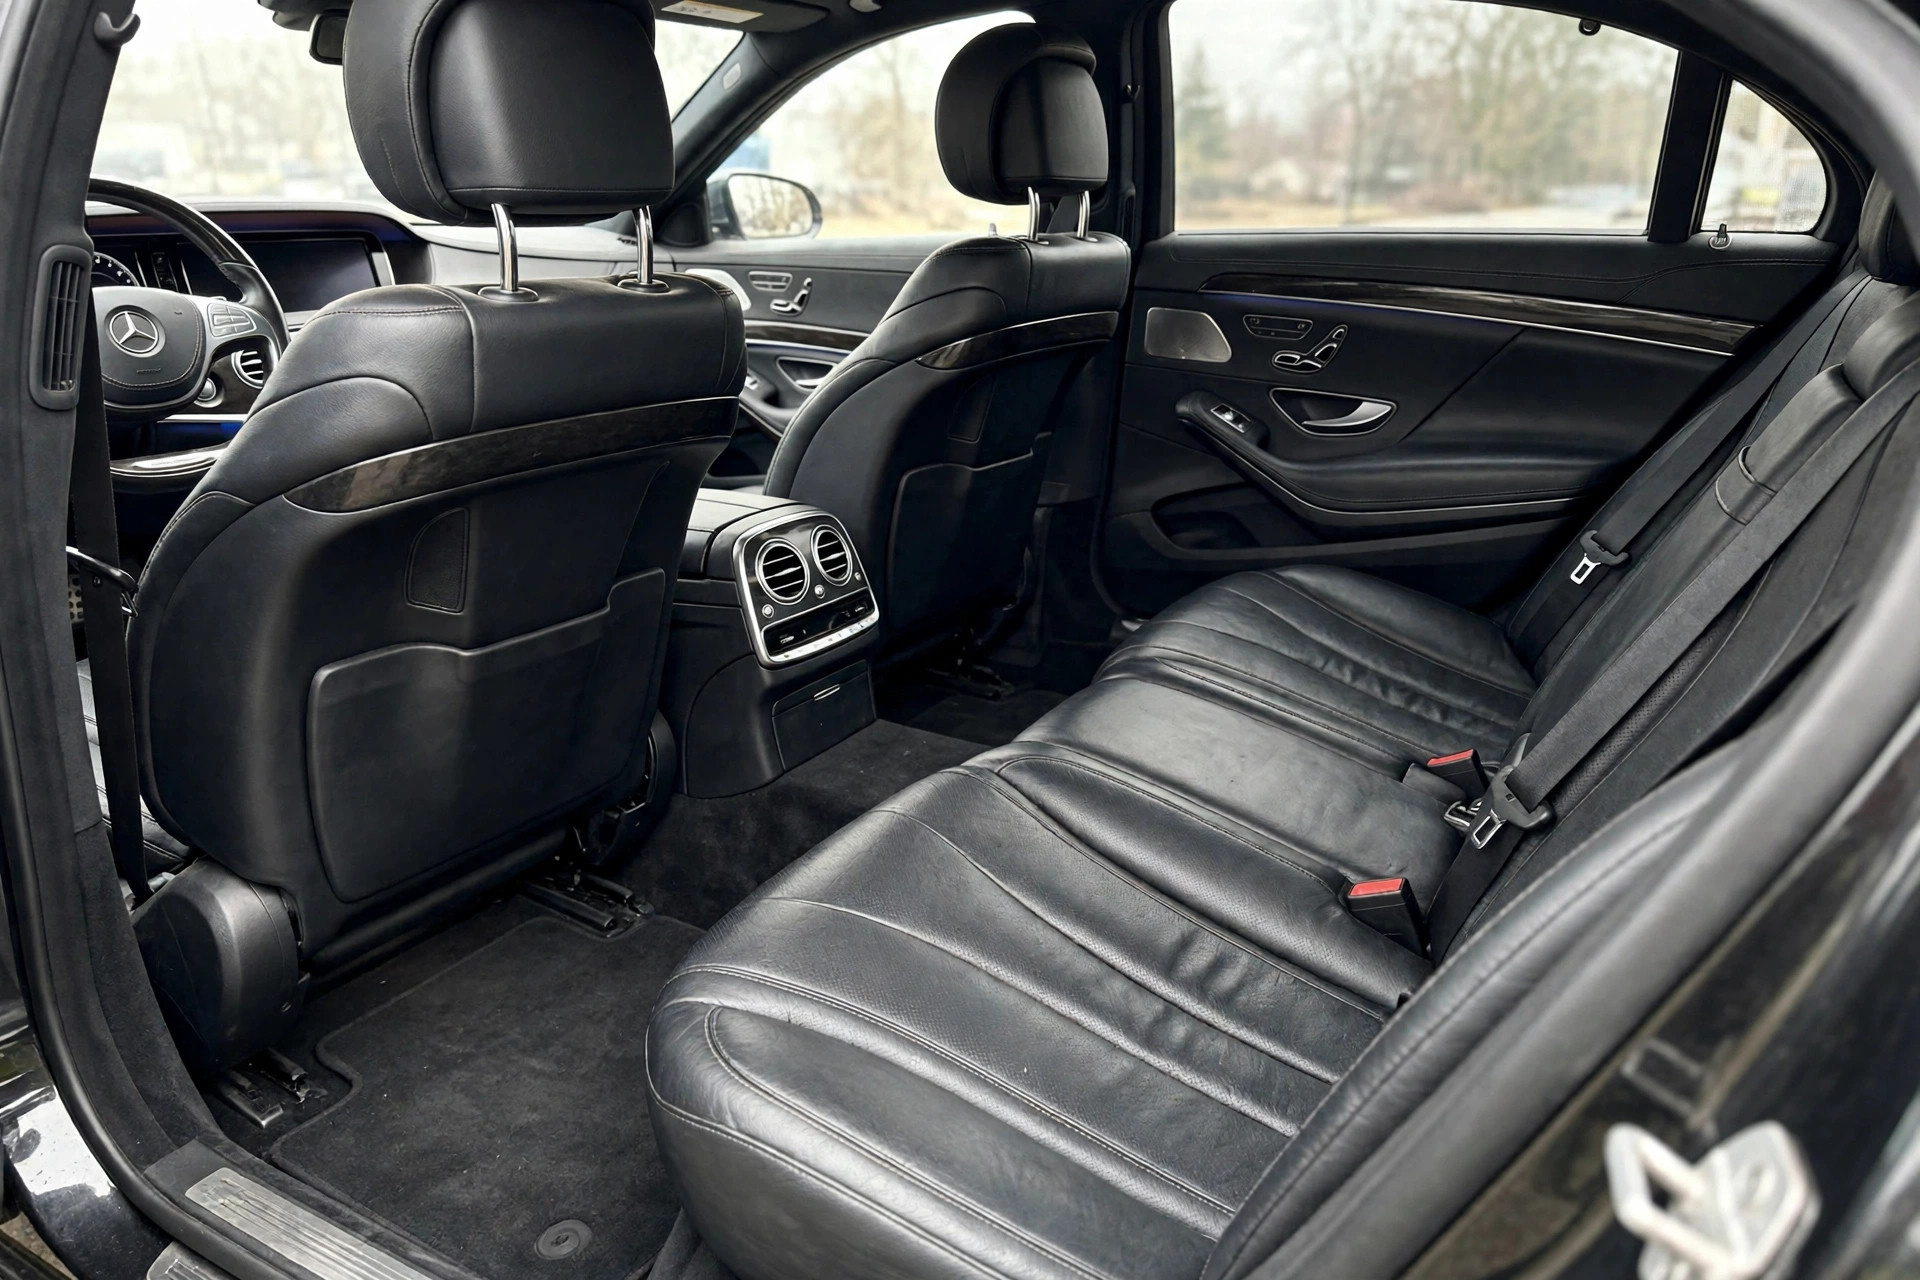
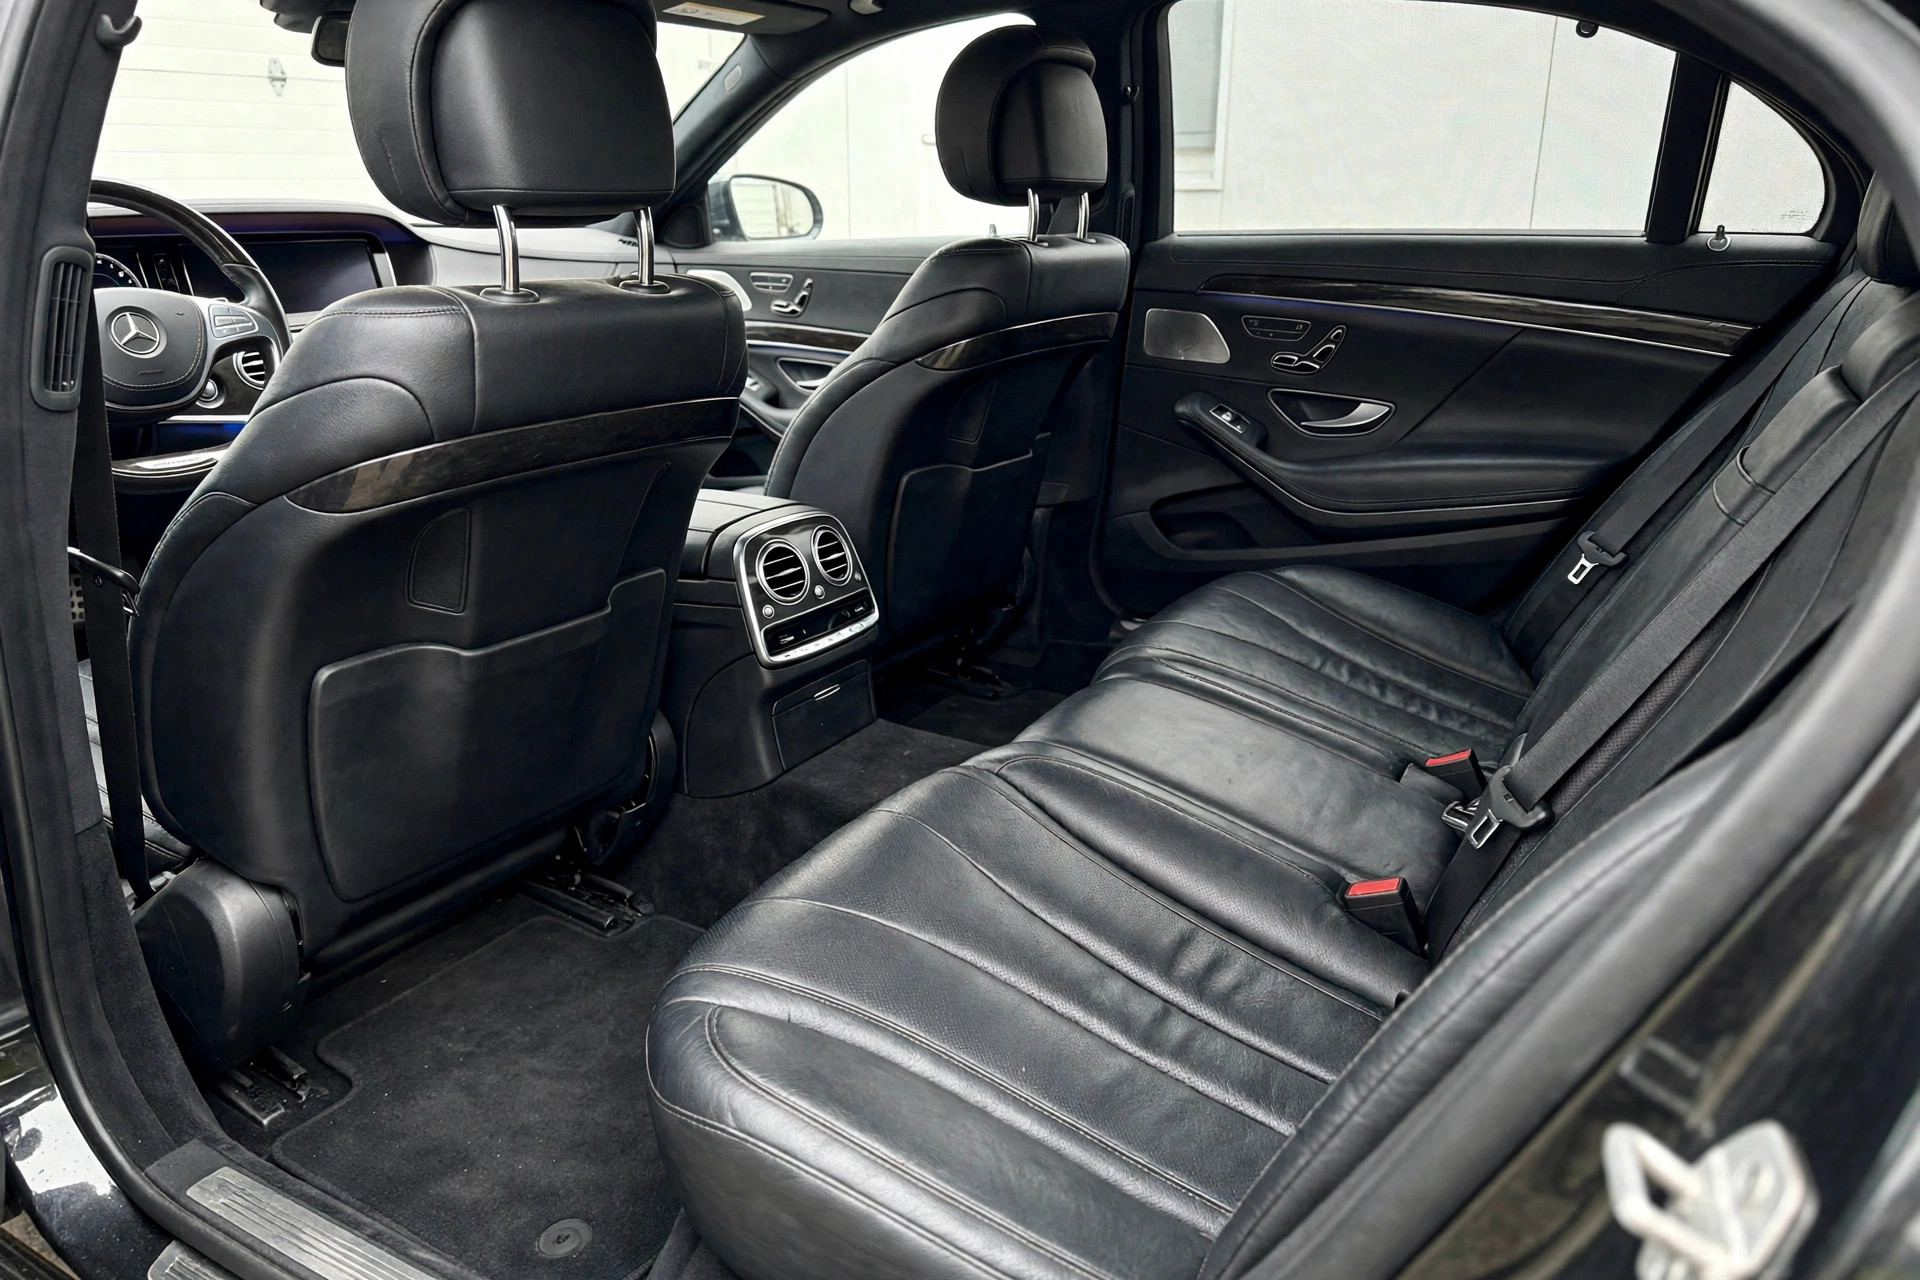
Detailing Bro finish pass (SGX)

diff --git a/index.html b/index.html
@@ -3,6 +3,7 @@
   <head>
     <meta charset="utf-8" />
     <meta name="viewport" content="width=device-width, initial-scale=1, viewport-fit=cover" />
+      <link rel="preload" as="image" href="hero-gelik.jpg" fetchpriority="high" />
     <meta name="color-scheme" content="dark" />
     <meta name="theme-color" content="#0A0A0A" />
     <meta name="mobile-web-app-capable" content="yes" />
@@ -33,17 +34,17 @@
       /* ---------- Header + role switch ---------- */
       header.top{
         position:sticky; top:0; z-index:40; background:rgba(10,10,10,.92);
-        backdrop-filter:blur(10px); border-bottom:1px solid var(--border);
+        -webkit-backdrop-filter:blur(10px);backdrop-filter:blur(10px); border-bottom:1px solid var(--border);
         padding:12px 16px 12px;
       }
       .brandrow{display:flex; align-items:center; justify-content:space-between; margin-bottom:10px;}
       .brand{font-size:19px; font-weight:800; letter-spacing:.2px;}
       .brand small{display:block; font-size:12px; font-weight:500; color:var(--muted); letter-spacing:0;}
-      .demo-tag{font-size:11px; font-weight:700; color:var(--muted); border:1px solid var(--border); border-radius:999px; padding:5px 10px; text-transform:uppercase; letter-spacing:.6px;}
+      .demo-tag{font-size:12px; font-weight:700; color:var(--muted); border:1px solid var(--border); border-radius:999px; padding:5px 10px; text-transform:uppercase; letter-spacing:.6px;}
       .segmented{display:flex; background:var(--card); border:1px solid var(--border); border-radius:999px; padding:4px; gap:4px;}
       .segmented button{
         flex:1; border:0; border-radius:999px; background:transparent; color:var(--muted);
-        font-size:15px; font-weight:700; padding:9px 0; min-height:44px; transition:all .15s;
+        font-size:15px; font-weight:700; padding:9px 0; min-height:44px; transition:transform .15s var(--ease-out), background-color .15s var(--ease-out), border-color .15s var(--ease-out);
       }
       .segmented button.active{background:var(--btn); color:var(--btn-text);}
 
@@ -150,7 +151,7 @@
       .dirty-row.on .switch::after{left:25px; background:#0A0A0A;}
       .sticky-bar{
         position:fixed; left:50%; transform:translateX(-50%); bottom:calc(var(--nav-h) + env(safe-area-inset-bottom));
-        width:min(480px,100%); background:rgba(16,16,16,.96); backdrop-filter:blur(10px);
+        width:min(480px,100%); background:rgba(16,16,16,.96); -webkit-backdrop-filter:blur(10px);backdrop-filter:blur(10px);
         border-top:1px solid var(--border); padding:12px 16px; z-index:35; display:none;
       }
       .sticky-bar.show{display:block;}
@@ -224,7 +225,7 @@
       nav.bottom button.active{color:#fff;}
       nav.bottom .badge{
         position:absolute; margin-left:30px; margin-top:-32px; background:#fff; color:#0A0A0A;
-        font-size:11px; font-weight:800; min-width:19px; height:19px; border-radius:999px;
+        font-size:12px; font-weight:800; min-width:19px; height:19px; border-radius:999px;
         display:none; align-items:center; justify-content:center; padding:0 5px;
       }
       nav.bottom .badge.show{display:flex;}
@@ -347,7 +348,7 @@
       .cal-nav{display:flex; align-items:center; justify-content:space-between; gap:8px; margin-bottom:12px;}
       .cal-nav b{font-size:15.5px; text-transform:capitalize; text-align:center;}
       .cal-grid{display:grid; grid-template-columns:repeat(7, 1fr); gap:4px;}
-      .cal-dow{font-size:11.5px; font-weight:700; color:var(--muted); text-align:center; padding:4px 0;}
+      .cal-dow{font-size:12px; font-weight:700; color:var(--muted); text-align:center; padding:4px 0;}
       .cal-day{background:var(--bg); border:1px solid var(--border); border-radius:10px; min-height:58px; padding:6px 2px; font-size:13px; font-weight:700; text-align:center; color:var(--text); cursor:pointer; min-width:0; overflow:hidden;}
       .cal-day .n{display:block; font-size:15px;}
       .cal-day .c{display:block; font-size:10px; font-weight:600; color:var(--muted); line-height:1.3; overflow-wrap:normal; white-space:nowrap;}
@@ -359,7 +360,7 @@
       .cal-stats{display:grid; grid-template-columns:repeat(3, 1fr); gap:8px; margin-bottom:10px;}
       .cal-stat{background:var(--bg); border:1px solid var(--border); border-radius:10px; padding:8px 6px; text-align:center;}
       .cal-stat b{display:block; font-size:16px;}
-      .cal-stat span{font-size:11.5px; color:var(--muted); font-weight:600;}
+      .cal-stat span{font-size:12px; color:var(--muted); font-weight:600;}
       .cal-panel ul{margin:0; padding-left:18px; font-size:14px; color:#DDD;}
       .cal-panel ul li{margin-bottom:4px;}
       /* ---------- Works placeholder ---------- */
@@ -413,6 +414,8 @@
       /* 6. Scroll-reveal секций: только opacity/transform, один раз (IntersectionObserver в JS). Класс .reveal — только на СТАТИЧНЫЙ HTML, чтобы перерисовка списков владельцем не прятала карточки. */
       .reveal{ opacity:0; transform:translateY(14px); transition:opacity .6s var(--ease-out), transform .6s var(--ease-out); }
       .reveal.in{ opacity:1; transform:translateY(0); }
+            /* display-шрифт только для hero: 1 начертание, кириллица есть */
+      .hero-title{ font-family:"Unbounded","SF Pro Display",-apple-system,sans-serif; font-weight:700; letter-spacing:-.02em; line-height:1.02; }
       @media (prefers-reduced-motion: reduce){
         .rec-dot{animation:none;}
         .hero img, .hero-text, .ba-knob::after{animation:none !important;}
@@ -423,7 +426,10 @@
     </style>
 <script async src="https://www.googletagmanager.com/gtag/js?id=G-6RMD07E5KT"></script>
 <script>window.dataLayer=window.dataLayer||[];function gtag(){dataLayer.push(arguments);}gtag('js',new Date());gtag('config','G-6RMD07E5KT');</script>
-  </head>
+        <link rel="preconnect" href="https://fonts.googleapis.com" />
+      <link rel="preconnect" href="https://fonts.gstatic.com" crossorigin />
+      <link href="https://fonts.googleapis.com/css2?family=Unbounded:wght@700&display=swap" rel="stylesheet" />
+    </head>
   <body>
     <div class="app">
       <header class="top">
@@ -441,9 +447,9 @@
         <!-- ============ ГЛАВНАЯ ============ -->
         <section class="view active" id="view-home">
           <div class="hero">
-            <img src="hero-gelik.jpg" alt="Чёрный Mercedes G-Class в детейлинг-студии" />
+            <img src="hero-gelik.jpg" alt="Чёрный Mercedes G-Class в детейлинг-студии" fetchpriority="high" width="1920" height="1280" />
             <div class="hero-text">
-              <h1>Detailing Bro</h1>
+              <h1 class="hero-title">Detailing Bro</h1>
               <p>Полировка, керамика и химчистка салона в студии</p>
             </div>
           </div>
@@ -497,7 +503,7 @@
               <p id="ppfCap1">Крыло и капот<span>Зоны риска закрывают в первую очередь: там больше всего сколов от камней.</span></p>
             </div>
             <div class="ppf-card">
-              <img id="ppfImg2" src="ppf-cut.jpg" alt="Подготовка и раскрой защитной плёнки для кузова" loading="lazy" />
+              <img id="ppfImg2" src="ppf-cut.jpg" alt="Нанесение защитной плёнки на капот чёрного Mercedes" loading="lazy" />
               <p id="ppfCap2">Раскрой по кузову<span>Плёнку режут по лекалам под конкретную модель, края заводят за кромки деталей.</span></p>
             </div>
           </div>
@@ -1154,7 +1160,7 @@
             '<div class="row-btns" style="flex-wrap:wrap;">' +
               '<button type="button" class="btn-to-book" data-act="agreed">Согласовать</button>' +
               '<button type="button" class="btn-to-book" data-act="work">В работу</button>' +
-              '<button type="button" class="btn-signup" data-act="done">Выполнена</button>' +
+              '<button type="button" class="btn-to-book" data-act="done">Выполнена</button>' +
               '<button type="button" class="btn-to-book" data-act="cancelled">Отменить</button>' +
             '</div>' +
             '<button type="button" class="own-save">Сохранить изменения</button>';
